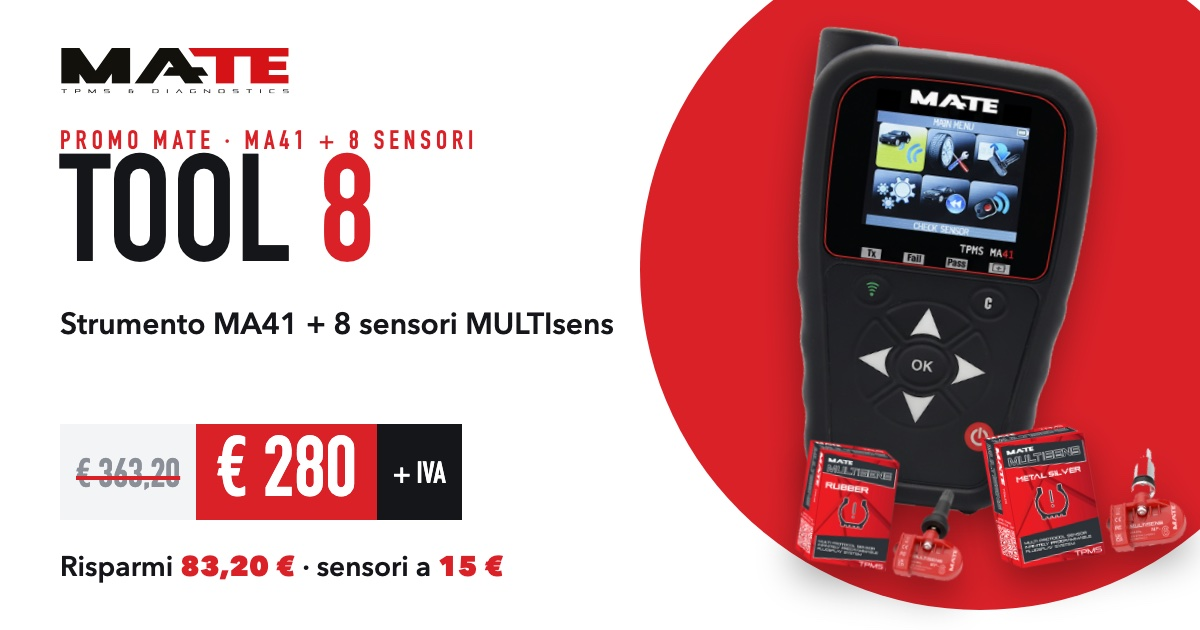
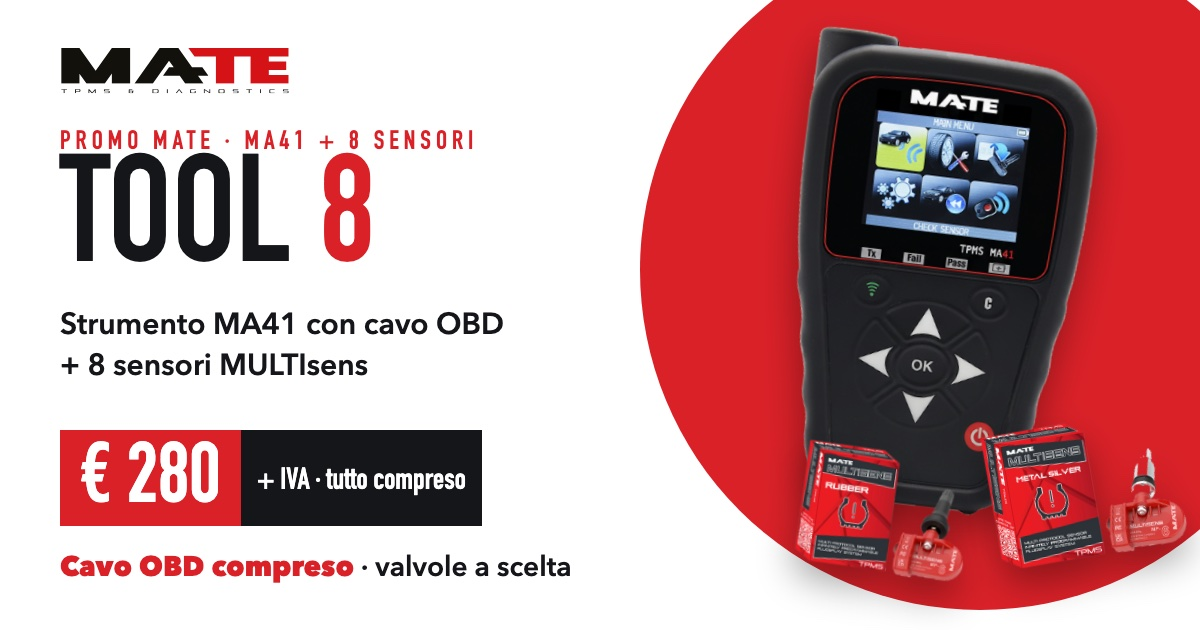
Tool 8: solo il totale a 280 €, cavo OBD compreso, video tutorial, niente Tesla

diff --git a/tool8-ma41/index.html b/tool8-ma41/index.html
@@ -4,10 +4,10 @@
 <meta charset="utf-8">
 <meta name="viewport" content="width=device-width, initial-scale=1, viewport-fit=cover">
 <title>Tool 8 MATE MA41</title>
-<meta name="description" content="Promo Tool 8: strumento TPMS MATE MA41 più 8 sensori MULTIsens a 280 euro più IVA invece di 363,20. Scegli le valvole e mandami l'ordine su WhatsApp.">
+<meta name="description" content="Promo Tool 8: strumento TPMS MATE MA41 con cavo OBD più 8 sensori MULTIsens a 280 euro più IVA, tutto compreso. Scegli le valvole e mandami l'ordine su WhatsApp.">
 <meta property="og:type" content="website">
 <meta property="og:title" content="Tool 8 · MA41 + 8 sensori MULTIsens a 280 € + IVA">
-<meta property="og:description" content="Strumento TPMS MATE MA41 più 8 sensori MULTIsens: 280 € invece di 363,20 €. Risparmi 83,20 €. Scegli le valvole e ordina su WhatsApp.">
+<meta property="og:description" content="Strumento TPMS MATE MA41 con cavo OBD + 8 sensori MULTIsens: 280 € + IVA tutto compreso. Scegli le valvole e ordina su WhatsApp.">
 <meta property="og:image" content="https://stefanoserafin.github.io/mak-promo/tool8-ma41/anteprima.jpg">
 <meta property="og:image:width" content="1200">
 <meta property="og:image:height" content="630">
@@ -45,6 +45,22 @@ section{padding:28px 16px 6px}
 .avviso.via{transform:translateY(-110%)}
 #secOrdine{scroll-margin-top:10px}
 
+/* prezzo unico */
+.unico{display:grid;grid-template-columns:1fr auto;border-radius:16px;overflow:hidden;transform:scale(.94);opacity:.4;transition:transform .45s .2s,opacity .45s .2s}
+.unico.vis{transform:none;opacity:1}
+.unico .sx{background:var(--ink);color:#fff;padding:14px 16px}
+.unico .sx small{display:block;font-size:11px;letter-spacing:1.5px;text-transform:uppercase;font-weight:700;color:#ff7a7f}
+.unico .sx p{margin:6px 0 0;font-size:16px;font-weight:600;line-height:1.3}
+.unico .dx{background:var(--red);color:#fff;padding:12px 16px;display:flex;flex-direction:column;justify-content:center;align-items:flex-end}
+.unico .dx b{font-family:var(--titolo);font-size:58px;line-height:.9;padding-top:6px;white-space:nowrap}
+.unico .dx em{font-style:normal;font-size:14px;font-weight:600}
+/* video tutorial */
+.video{display:block;position:relative;border-radius:16px;overflow:hidden;text-decoration:none;color:#fff;line-height:0;background:#000}
+.video img{width:100%;height:auto;display:block;opacity:.85}
+.video .play{position:absolute;left:50%;top:50%;width:72px;height:72px;margin:-36px 0 0 -36px;border-radius:50%;background:var(--red);display:flex;align-items:center;justify-content:center;box-shadow:0 8px 20px rgba(0,0,0,.4)}
+.video .play svg{width:30px;height:30px;fill:#fff;margin-left:4px}
+.video .tit{position:absolute;left:0;right:0;bottom:0;padding:24px 14px 12px;background:linear-gradient(transparent,rgba(0,0,0,.8));line-height:1.3;font-size:14px}
+.video .tit b{display:block;font-size:16px}
 /* da comprati a parte a Tool 8 */
 .salto{display:grid;grid-template-columns:1fr 36px 1.25fr;align-items:stretch}
 .salto .box{border-radius:14px;padding:12px 14px}
@@ -140,29 +156,27 @@ footer b{color:var(--ink)}
 </head>
 <body>
 <a class="avviso" id="avviso" href="#secOrdine">
-  <span><b>Tool 8 a 280 € + IVA:</b> scegli le valvole e mandami l'ordine</span><i>↓</i>
+  <span><b>Tool 8 a 280 € + IVA tutto compreso:</b> scegli le valvole</span><i>↓</i>
 </a>
 <div class="wrap">
 
 <div class="hero">
-  <img src="locandina.jpg" alt="Promo Tool 8 MATE: strumento MA41 più 8 sensori MULTIsens a 280 euro più IVA invece di 363,20. Risparmi 83,20 euro" width="1620" height="2025">
+  <img src="locandina.jpg" alt="Promo Tool 8 MATE: strumento MA41 con cavo OBD più 8 sensori MULTIsens a 280 euro più IVA, tutto compreso" width="1620" height="2025">
 </div>
 
 <section>
-  <div class="salto" id="salto">
-    <div class="box singolo"><small>Comprati a parte</small><b>€ 363,20</b><em>+ IVA, listino</em></div>
-    <div class="fr">→</div>
-    <div class="box pacchetto"><small>Tool 8 in promo</small><b>€ 280<i>+ IVA</i></b><em>MA41 + 8 sensori MULTIsens</em></div>
+  <div class="unico" id="salto">
+    <div class="sx"><small>Tool 8 · tutto compreso</small><p>Strumento MA41<br>+ cavo OBD<br>+ 8 sensori MULTIsens</p></div>
+    <div class="dx"><b>€ 280</b><em>+ IVA</em></div>
   </div>
-  <p class="risp">Risparmi <b>83,20 €</b> (−23%)</p>
 </section>
 
 <section>
   <h2>Perché <em>conviene</em></h2>
   <p class="sub">Tutto quello che serve per partire con il TPMS, in un solo pacchetto.</p>
   <div class="vant" id="vant">
-    <div class="va"><span class="ic">−40</span><div><h3>MA41 a 160 €</h3><p>Lo strumento TPMS più venduto della gamma MATE costa <strong>40 € in meno</strong> del listino (200 €).</p></div></div>
-    <div class="va"><span class="ic">15</span><div><h3>Sensori a 15 €</h3><p>Gli 8 MULTIsens ti costano <strong>15,00 € l'uno invece di 20,40</strong>: meno anche del Refill da 20 pezzi (15,90 €).</p></div></div>
+    <div class="va"><span class="ic">280</span><div><h3>Tutto in un prezzo</h3><p>Strumento, cavo OBD e 8 sensori a <strong>280 € + IVA</strong>: parti con il TPMS senza altre spese.</p></div></div>
+    <div class="va"><span class="ic">OBD</span><div><h3>Cavo OBD compreso</h3><p>Per il <strong>riapprendimento dalla presa diagnosi</strong>: con il Tool 8 è già nella confezione.</p></div></div>
     <div class="va"><span class="ic">3</span><div><h3>Valvole a scelta</h3><p>Gomma, metallo silver o metallo black: <strong>le mischi come vuoi</strong>, contano gli 8 in totale.</p></div></div>
     <div class="va"><span class="ic">94%</span><div><h3>Un sensore, quasi tutte le auto</h3><p>MULTIsens MP6 è <strong>universale</strong>: copre il 94% delle vetture con TPMS diretto. Lo programmi con l'MA41, <strong>4 sensori insieme</strong>.</p></div></div>
     <div class="va"><span class="ic">5</span><div><h3>5 anni di aggiornamenti</h3><p>Lo strumento riceve le nuove vetture e i nuovi sensori per <strong>5 anni</strong>, dal computer via USB.</p></div></div>
@@ -172,12 +186,23 @@ footer b{color:var(--ink)}
 
 <section>
   <h2>Cosa c'è <em>dentro</em></h2>
-  <p class="sub">I prezzi di listino del portale B2B e quelli del Tool 8.</p>
+  <p class="sub">Un pacchetto, un prezzo: 280 € + IVA.</p>
   <div class="conto">
-    <div class="r"><span>Strumento MATE MA41<small>cod. 9300000330</small></span><s>200,00 €</s><b>160,00 €</b></div>
-    <div class="r"><span>8 sensori MULTIsens MP6<small>8 × 20,40 € → 8 × 15,00 €</small></span><s>163,20 €</s><b>120,00 €</b></div>
-    <div class="r tot"><span><b style="font-size:22px;color:var(--ink)">Tool 8</b><small>IVA esclusa</small></span><s>363,20 €</s><b>280,00 €</b></div>
+    <div class="r"><span>Strumento TPMS MATE MA41<small>cod. 9300000330 · con cavo USB e caricabatterie</small></span><span></span><b>1</b></div>
+    <div class="r"><span>Cavo OBD<small>per il riapprendimento dalla presa diagnosi</small></span><span></span><b>1</b></div>
+    <div class="r"><span>Sensori MULTIsens MP6<small>valvole a scelta, anche miste</small></span><span></span><b>8</b></div>
+    <div class="r tot"><span><b style="font-size:22px;color:var(--ink)">Tool 8</b><small>tutto compreso, IVA esclusa</small></span><span></span><b>280,00 €</b></div>
   </div>
+</section>
+
+<section>
+  <h2>Guarda come <em>funziona</em></h2>
+  <p class="sub">Il video tutorial dello strumento, dal canale YouTube di Salvatore Pepe (MATE).</p>
+  <a class="video" href="https://youtu.be/Hncp8_1w31w" target="_blank" rel="noopener" id="video">
+    <img src="video-tutorial.jpg" alt="Video tutorial dello strumento di diagnosi TPMS ATEQ" width="720" height="405" loading="lazy">
+    <span class="play"><svg viewBox="0 0 24 24"><path d="M8 5v14l11-7z"/></svg></span>
+    <span class="tit"><b>Strumento di diagnosi TPMS ATEQ</b>Video tutorial su YouTube</span>
+  </a>
 </section>
 
 <section id="secOrdine">
@@ -193,7 +218,7 @@ footer b{color:var(--ink)}
     </div>
     <div class="barra" id="barra"><i></i></div>
     <div class="stato" id="stato"></div>
-    <div class="totale"><span>Tool 8: MA41 + 8 sensori<br>tutto compreso, IVA esclusa</span><b>280,00 €<i>+ IVA</i></b></div>
+    <div class="totale"><span>Tool 8: MA41, cavo OBD<br>e 8 sensori, IVA esclusa</span><b>280,00 €<i>+ IVA</i></b></div>
     <label class="f" for="officina">Officina</label>
     <input type="text" id="officina" placeholder="Nome dell'officina" autocomplete="organization">
   </div>
@@ -203,10 +228,10 @@ footer b{color:var(--ink)}
 <section>
   <h2>Da <em>sapere</em></h2>
   <ul class="sapere">
-    <li>Nella confezione dell'MA41 ci sono strumento, cavo USB e caricabatterie. Il <b>modulo OBDII</b> per il riapprendimento dalla presa diagnosi è a parte: chiedimelo se ti serve.</li>
+    <li>Nel Tool 8 ci sono strumento, <b>cavo OBD</b>, cavo USB e caricabatterie: per il riapprendimento dalla presa diagnosi hai già tutto.</li>
     <li>Con una carica fai circa <b>60–80 vetture</b>.</li>
     <li>Gli aggiornamenti si fanno dal computer con il programma ATEQ, via USB.</li>
-    <li>Il MULTIsens si riapprende come il sensore originale; sulle Tesla con sensori Bluetooth non va.</li>
+    <li>Il MULTIsens si riapprende come il sensore originale.</li>
   </ul>
   <div class="rim">
     <a href="../refill-multisens/"><span><b>Dopo il Tool 8:</b> riordina i MULTIsens con il Refill 20</span><span>›</span></a>
@@ -279,8 +304,8 @@ document.addEventListener("DOMContentLoaded", () => {
   function messaggio() {
     const n = totale(), off = $("officina").value.trim();
     const righeS = SENSORI.map((s, i) => pz[i] ? "• " + s.cod + " MULTIsens " + s.nome + ": " + pz[i] + " pz" : "").filter(Boolean);
-    const testo = "Ciao Stefano, vorrei il *Tool 8 MATE*: MA41 + 8 sensori MULTIsens a 280 € + IVA\n" +
-      "• 9300000330 MATE MA41: 1 pz\n" +
+    const testo = "Ciao Stefano, vorrei il *Tool 8 MATE*: MA41 con cavo OBD + 8 sensori MULTIsens a 280 € + IVA\n" +
+      "• 9300000330 MATE MA41 con cavo OBD: 1 pz\n" +
       (righeS.length ? righeS.join("\n") + "\n" : "") +
       (n < PROMO.sensori ? (n ? "Gli altri " + (PROMO.sensori - n) + " sensori: decidiamo insieme le valvole\n" : "Valvole degli 8 sensori: decidiamo insieme\n") : "") +
       "Totale 280,00 € + IVA\n\nOfficina: " + off;
@@ -288,6 +313,7 @@ document.addEventListener("DOMContentLoaded", () => {
     $("waTesto").textContent = n ? "Ordina il Tool 8 su WhatsApp" : "Voglio il Tool 8: scrivimi";
   }
 
+  $("video").addEventListener("click", () => window.conta && window.conta("ricerca", "video tutorial"));
   const io = "IntersectionObserver" in window;
   if (io) {
     const a = new IntersectionObserver(es => es.forEach(e => { if (e.isIntersecting) { $("salto").classList.add("vis"); a.disconnect(); } }), {threshold: .4});

diff --git a/_build/anteprima-tool8-ma41.html b/_build/anteprima-tool8-ma41.html
@@ -12,7 +12,7 @@
   h1{font-size:150px;line-height:.86;text-transform:uppercase;margin-top:6px}
   h1 span{color:#da2128}
   .s{font-size:30px;font-weight:600;margin-top:10px}
-  .prezzo{position:absolute;left:60px;bottom:110px;display:flex;align-items:stretch}
+  .prezzo{position:absolute;left:60px;bottom:104px;display:flex;align-items:stretch}
   .da{background:#f3f4f6;color:#8a8f98;font-size:40px;padding:14px 16px 0;display:flex;align-items:center;text-decoration:line-through;text-decoration-color:#da2128}
   .val{background:#da2128;color:#fff;font-size:84px;padding:12px 20px 0;line-height:1}
   .det{background:#14161a;color:#fff;font-size:30px;padding:10px 16px 0;display:flex;align-items:center}
@@ -24,7 +24,7 @@
 <img class="k" src="../../Locandine/tool8-ma41/mp6-silver.png" style="right:20px;top:420px;width:190px;transform:rotate(-10deg)">
 <img class="k" src="../../Locandine/tool8-ma41/mp6-rubber.png" style="right:230px;top:450px;width:170px;transform:rotate(8deg)">
 <img class="logo" src="../tool8-ma41/logo-mate-nero.svg">
-<div class="txt"><div class="kk din">PROMO MATE · MA41 + 8 SENSORI</div><h1 class="din">Tool <span>8</span></h1><p class="s">Strumento MA41 + 8 sensori MULTIsens</p></div>
-<div class="prezzo din"><span class="da">€ 363,20</span><span class="val">€ 280</span><span class="det">+ IVA</span></div>
-<div class="om">Risparmi <b>83,20 €</b> · sensori a <b>15 €</b></div>
+<div class="txt"><div class="kk din">PROMO MATE · MA41 + 8 SENSORI</div><h1 class="din">Tool <span>8</span></h1><p class="s">Strumento MA41 con cavo OBD<br>+ 8 sensori MULTIsens</p></div>
+<div class="prezzo din"><span class="val">€ 280</span><span class="det">+ IVA · tutto compreso</span></div>
+<div class="om"><b>Cavo OBD compreso</b> · valvole a scelta</div>
 </body></html>

diff --git a/README.md b/README.md
@@ -282,7 +282,8 @@ Rigenera: `python3 _build/build.py`
 
 ## tool8-ma41 (Tool 8: strumento MATE MA41 + 8 sensori MULTIsens, 280 € + IVA, senza scadenza)
 
+- **Revisione di Stefano del 2026-11-14**: solo il totale di 280 € (niente prezzi separati, niente risparmio), cavo OBD compreso nel pacchetto, video tutorial con anteprima (https://youtu.be/Hncp8_1w31w, canale di Salvatore Pepe; miniatura `video-tutorial.jpg`, il tocco va al contatore come «video tutorial»), niente Tesla.
 - Fonte: portale B2B, Promozioni › Promozioni Tool › MATE MULTIsens › Tool 8 (letto il 2026-11-14 con l'account cliente, carrello invariato): MA41 a 160 € (listino 200) + 8 MULTIsens a 15,00 € (listino 20,40) = 280 € invece di 363,20 € (−83,20 €, −23%). Sul B2B ci sono anche Tool 16/30 e le versioni HUF ECS e AUTEL: per scelta di Stefano solo il Tool 8 MULTIsens.
-- Pagina: salto di prezzo animato, 6 vantaggi (MA41 −40 €, sensori a 15 € meno del Refill 20, valvole miste, copertura 94%, 5 anni di aggiornamenti, assistenza MATE), «Cosa c'è dentro» listino contro promo, scelta delle valvole degli 8 sensori (+ si blocca a 8, mix rapidi), «Da sapere» (modulo OBDII a parte, 60–80 vetture a carica, aggiornamento da PC, niente Tesla Bluetooth), rimandi a refill-multisens e assistenza-mate.
+- Pagina: prezzo unico 280 € tutto compreso, 6 vantaggi (tutto in un prezzo, cavo OBD compreso, valvole miste, copertura 94%, 5 anni di aggiornamenti, assistenza MATE), «Cosa c'è dentro» senza prezzi separati, video tutorial, scelta delle valvole degli 8 sensori (+ si blocca a 8, mix rapidi), «Da sapere» (60–80 vetture a carica, aggiornamento da PC), rimandi a refill-multisens e assistenza-mate.
 - WhatsApp con MA41 e righe dei sensori per codice (le valvole non scelte: «decidiamo insieme»), totale 280 € + IVA e officina. Al contatore il mix di valvole quando arriva a 8.
 - Foto: MA41 e sensori MP6 scontornati della campagna refill-multisens. Locandina: `../Locandine/tool8-ma41/locandina.html`. Anteprima: `_build/anteprima-tool8-ma41.html`; icona: `_build/icona-tool8-ma41.html`. Nessun vocale per ora.
